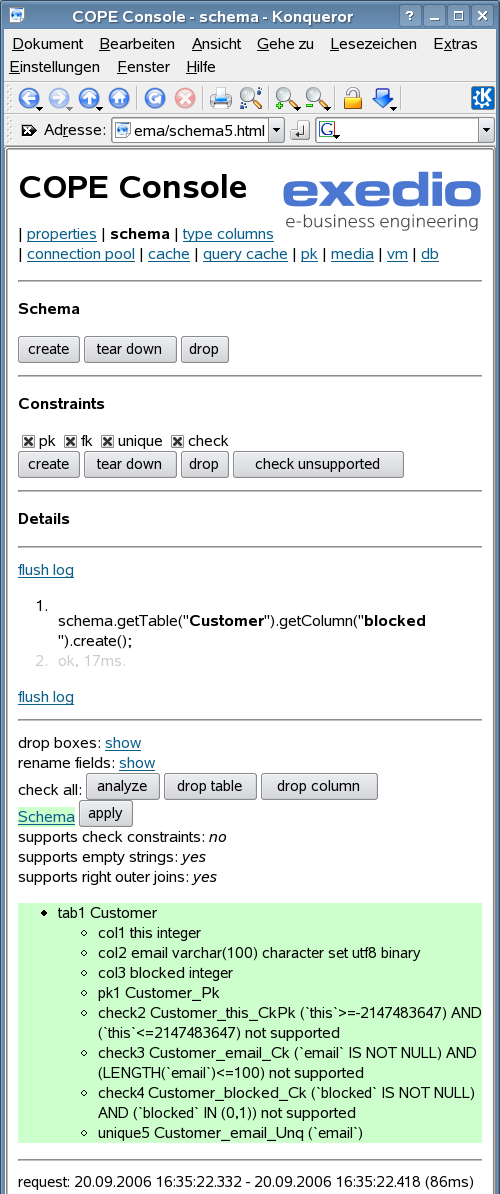
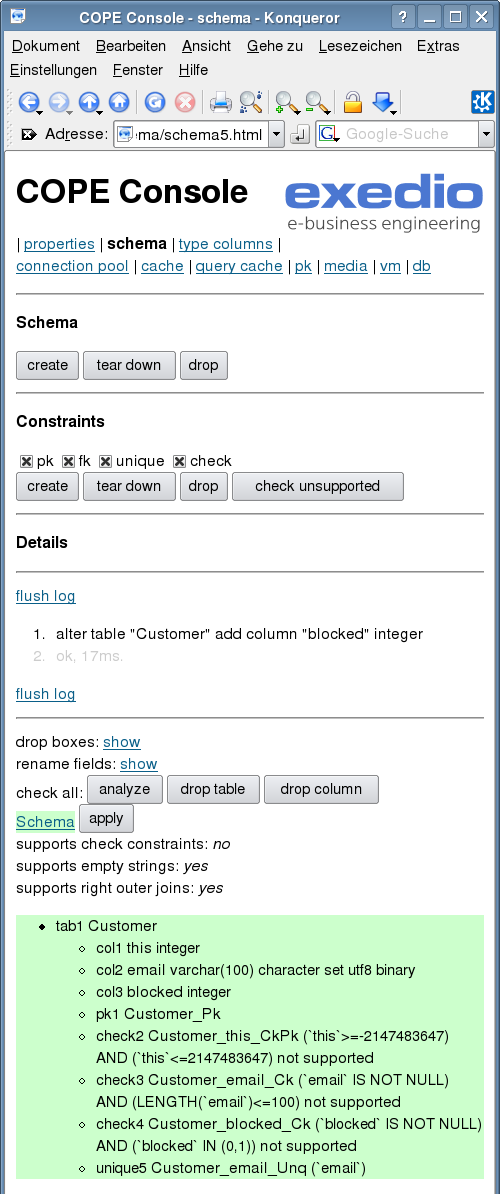
adapt homepage, schema evolution logs sql statement instead of java code
git-svn-id: https://svn.exedio.com/cope/trunk/persistence@7725 e7d4fc99-c606-0410-b9bf-843393a9eab7

Changed region(s): [[0.0, 0.0, 0.99, 1.0]]

diff --git a/home/schema.html b/home/schema.html
@@ -115,16 +115,10 @@ public class Customer extends Item
 		<div>
 			Column <i>blocked</i> does exist now,
 			and therefore the red background turned to green.
-			On the same page there is a log about COPE's activities:
+			On the same page the sql statement sent to the database
+			is logged:
 		</div>
-		<img src="schema5a.png" class="console" width="500" height="51">
-		<div>
-			This shows you, that column <i>blocked</i> of table
-			<i>Customer</i> just has been created.
-			At the same time this log is valid java source code,
-			which can be used to achive the same effect programatically
-			within your application.
-		</div>
+		<img src="schema5a.png" class="console" width="500" height="59">
 		<div>
 			In a similar way you may deal with dropped columns,
 			changed column types, new tables, changed constraints etc.

diff --git a/screenshots/schema/schema5.html b/screenshots/schema/schema5.html
@@ -43,7 +43,7 @@
 			<hr>
 					<a href="?schema=Customer">flush log</a>
 	<ol>
-		<li>schema.getTable(&quot;<b>Customer</b>&quot;).getColumn(&quot;<b>blocked</b>&quot;).create();</li><li class="timelog">ok, 17ms.</li>
+		<li>alter table "Customer" add column "blocked" integer</li><li class="timelog">ok, 17ms.</li>
 	</ol>
 					<a href="?schema=Customer">flush log</a>
 					<hr>
